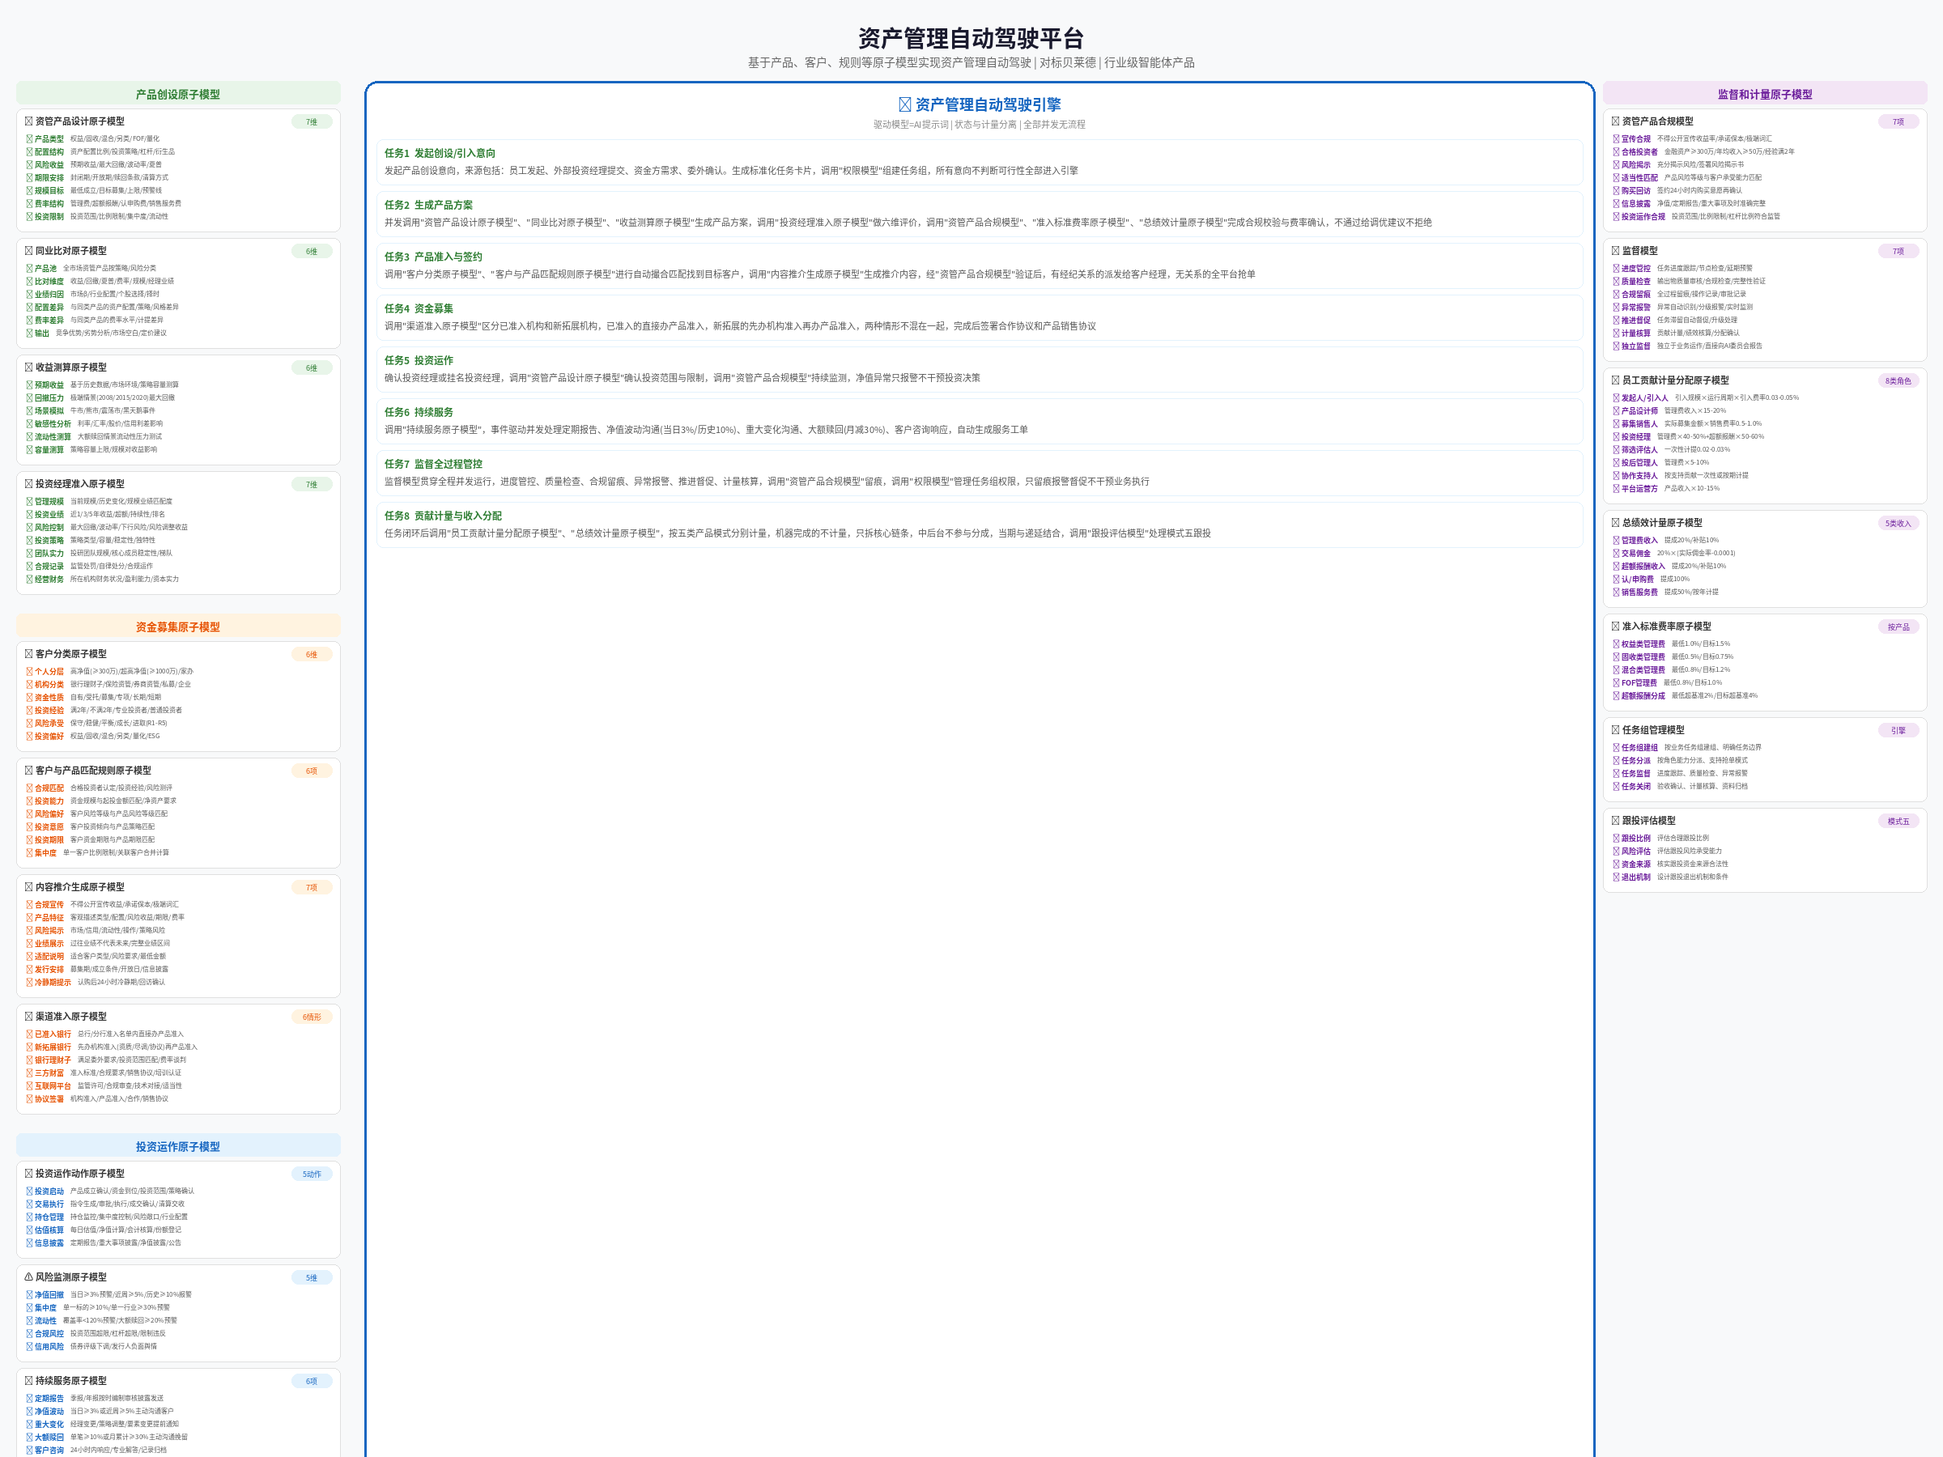
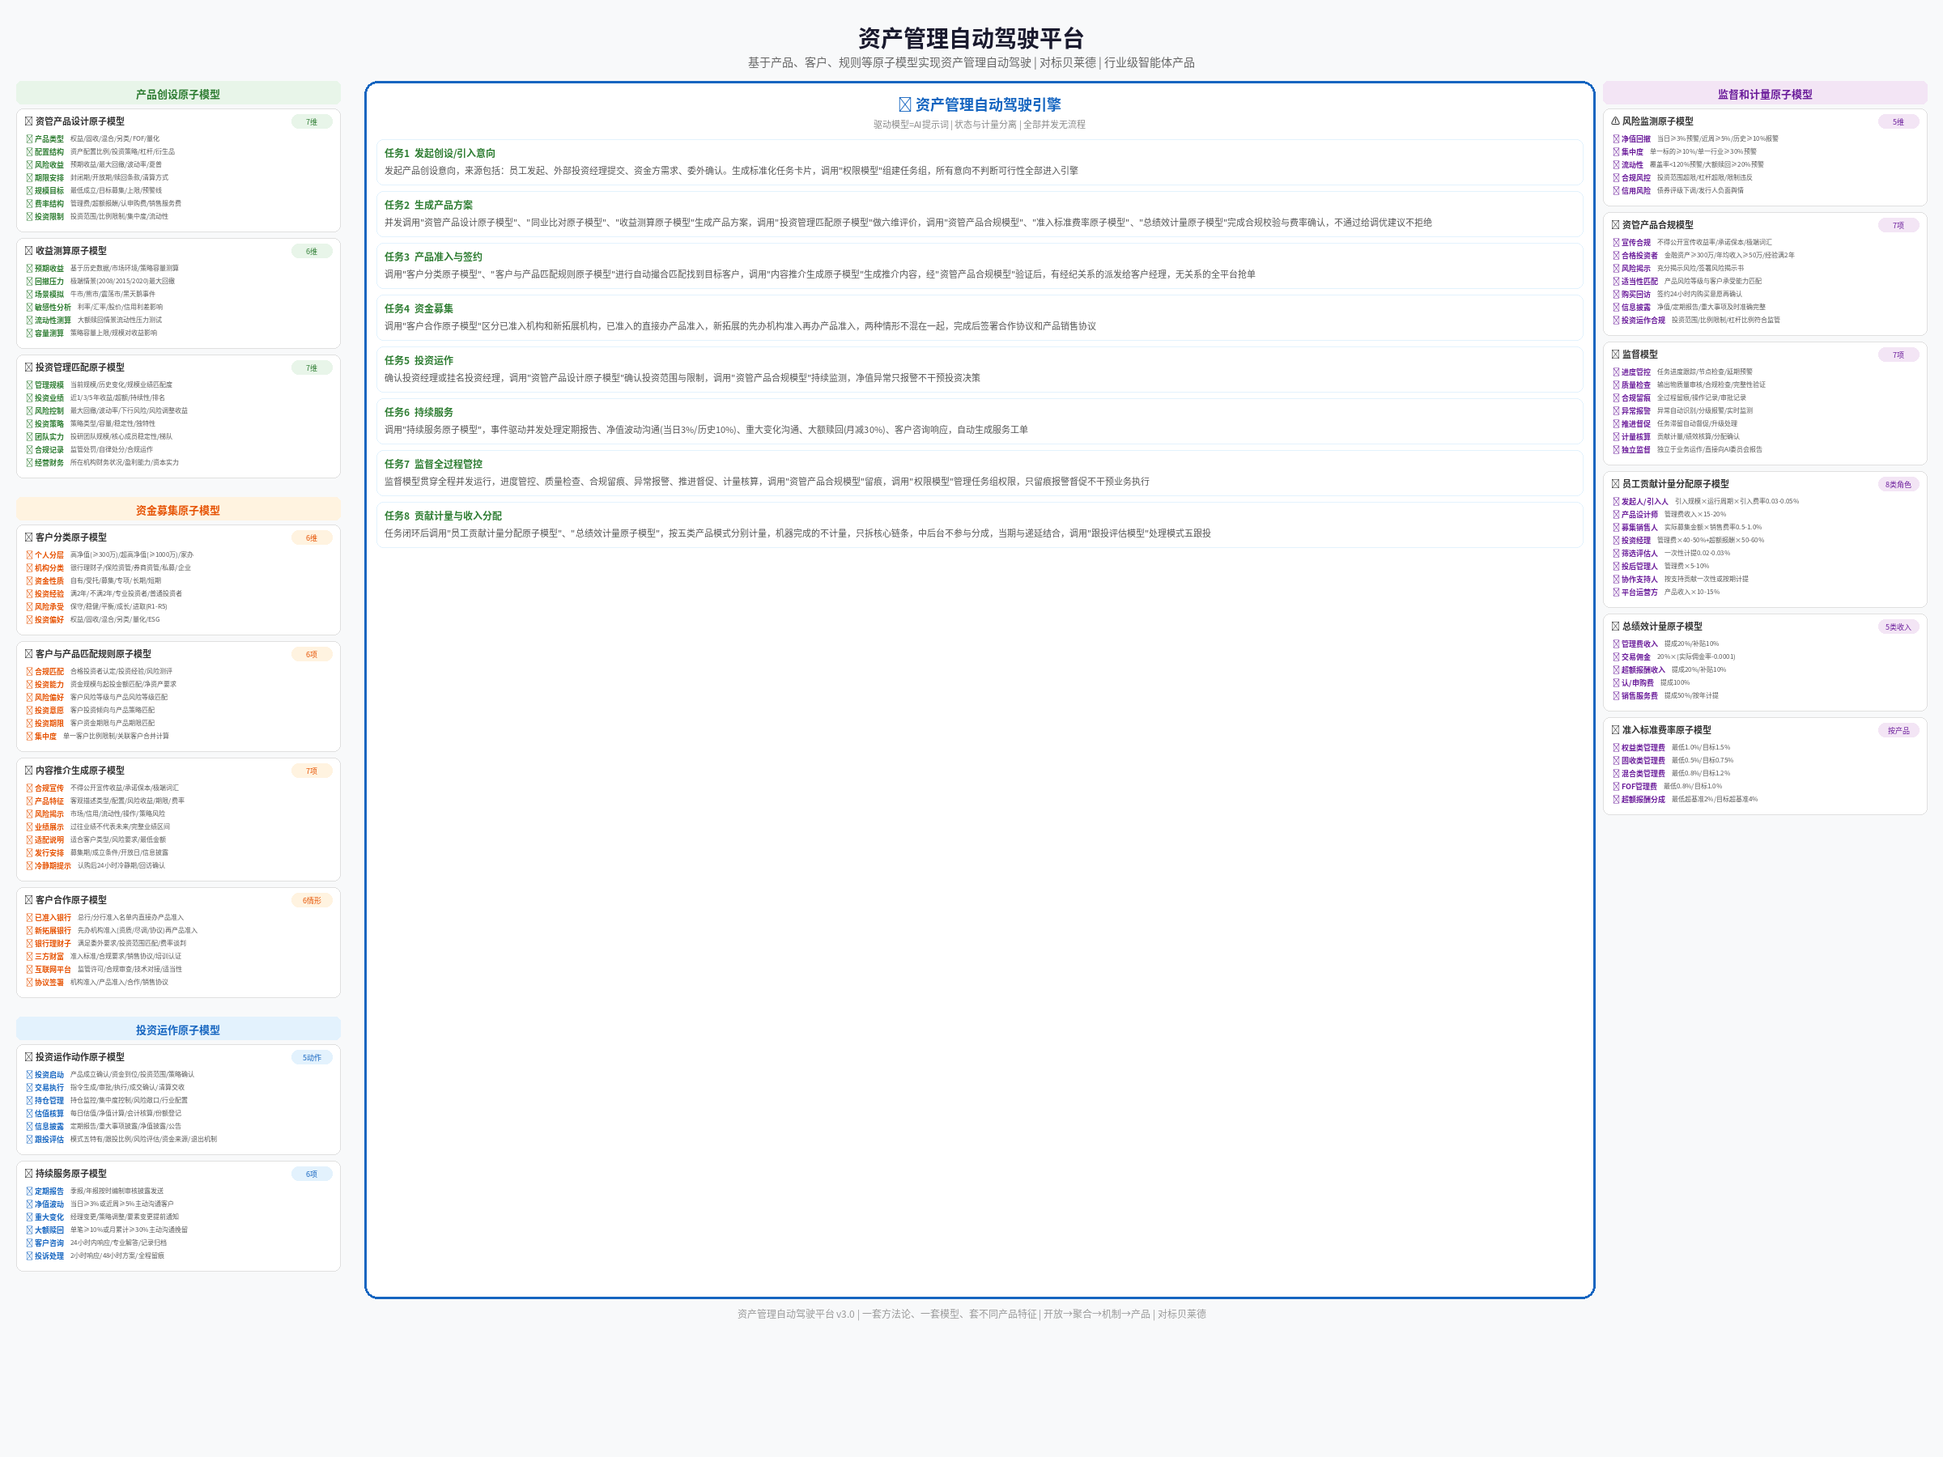
更新：去掉同业比对/权限模型/独立跟投评估，渠道准入改客户合作，风险监测移到右侧

diff --git a/diagrams/generate_asset_mgmt_diagram.py b/diagrams/generate_asset_mgmt_diagram.py
@@ -109,18 +109,6 @@ sections_left = [
                 ]
             },
             {
-                'title': '📊 同业比对原子模型',
-                'tag': '6维',
-                'items': [
-                    ('产品池', '全市场资管产品按策略/风险分类'),
-                    ('比对维度', '收益/回撤/夏普/费率/规模/经理业绩'),
-                    ('业绩归因', '市场β/行业配置/个股选择/择时'),
-                    ('配置差异', '与同类产品的资产配置/策略/风格差异'),
-                    ('费率差异', '与同类产品的费率水平/计提差异'),
-                    ('输出', '竞争优势/劣势分析/市场空白/定价建议'),
-                ]
-            },
-            {
                 'title': '🧮 收益测算原子模型',
                 'tag': '6维',
                 'items': [
@@ -133,7 +121,7 @@ sections_left = [
                 ]
             },
             {
-                'title': '👤 投资经理准入原子模型',
+                'title': '👤 投资管理匹配原子模型',
                 'tag': '7维',
                 'items': [
                     ('管理规模', '当前规模/历史变化/规模业绩匹配度'),
@@ -189,7 +177,7 @@ sections_left = [
                 ]
             },
             {
-                'title': '🏦 渠道准入原子模型',
+                'title': '🤝 客户合作原子模型',
                 'tag': '6情形',
                 'items': [
                     ('已准入银行', '总行/分行准入名单内直接办产品准入'),
@@ -215,17 +203,7 @@ sections_left = [
                     ('持仓管理', '持仓监控/集中度控制/风险敞口/行业配置'),
                     ('估值核算', '每日估值/净值计算/会计核算/份额登记'),
                     ('信息披露', '定期报告/重大事项披露/净值披露/公告'),
-                ]
-            },
-            {
-                'title': '⚠ 风险监测原子模型',
-                'tag': '5维',
-                'items': [
-                    ('净值回撤', '当日≥3%预警/近周≥5%/历史≥10%报警'),
-                    ('集中度', '单一标的≥10%/单一行业≥30%预警'),
-                    ('流动性', '覆盖率<120%预警/大额赎回≥20%预警'),
-                    ('合规风控', '投资范围超限/杠杆超限/限制违反'),
-                    ('信用风险', '债券评级下调/发行人负面舆情'),
+                    ('跟投评估', '模式五特有/跟投比例/风险评估/资金来源/退出机制'),
                 ]
             },
             {
@@ -249,6 +227,17 @@ sections_right = [
         'title': '监督和计量原子模型',
         'sec': 'sec4',
         'models': [
+            {
+                'title': '⚠ 风险监测原子模型',
+                'tag': '5维',
+                'items': [
+                    ('净值回撤', '当日≥3%预警/近周≥5%/历史≥10%报警'),
+                    ('集中度', '单一标的≥10%/单一行业≥30%预警'),
+                    ('流动性', '覆盖率<120%预警/大额赎回≥20%预警'),
+                    ('合规风控', '投资范围超限/杠杆超限/限制违反'),
+                    ('信用风险', '债券评级下调/发行人负面舆情'),
+                ]
+            },
             {
                 'title': '🛡 资管产品合规模型',
                 'tag': '7项',
@@ -309,26 +298,6 @@ sections_right = [
                     ('混合类管理费', '最低0.8%/目标1.2%'),
                     ('FOF管理费', '最低0.8%/目标1.0%'),
                     ('超额报酬分成', '最低超基准2%/目标超基准4%'),
-                ]
-            },
-            {
-                'title': '🔑 任务组管理模型',
-                'tag': '引擎',
-                'items': [
-                    ('任务组建组', '按业务任务组建组、明确任务边界'),
-                    ('任务分派', '按角色能力分派、支持抢单模式'),
-                    ('任务监督', '进度跟踪、质量检查、异常报警'),
-                    ('任务关闭', '验收确认、计量核算、资料归档'),
-                ]
-            },
-            {
-                'title': '📋 跟投评估模型',
-                'tag': '模式五',
-                'items': [
-                    ('跟投比例', '评估合理跟投比例'),
-                    ('风险评估', '评估跟投风险承受能力'),
-                    ('资金来源', '核实跟投资金来源合法性'),
-                    ('退出机制', '设计跟投退出机制和条件'),
                 ]
             },
         ]
@@ -421,11 +390,11 @@ tasks = [
     ('1', '发起创设/引入意向',
      '发起产品创设意向，来源包括：员工发起、外部投资经理提交、资金方需求、委外确认。生成标准化任务卡片，调用"权限模型"组建任务组，所有意向不判断可行性全部进入引擎'),
     ('2', '生成产品方案',
-     '并发调用"资管产品设计原子模型"、"同业比对原子模型"、"收益测算原子模型"生成产品方案，调用"投资经理准入原子模型"做六维评价，调用"资管产品合规模型"、"准入标准费率原子模型"、"总绩效计量原子模型"完成合规校验与费率确认，不通过给调优建议不拒绝'),
+     '并发调用"资管产品设计原子模型"、"同业比对原子模型"、"收益测算原子模型"生成产品方案，调用"投资管理匹配原子模型"做六维评价，调用"资管产品合规模型"、"准入标准费率原子模型"、"总绩效计量原子模型"完成合规校验与费率确认，不通过给调优建议不拒绝'),
     ('3', '产品准入与签约',
      '调用"客户分类原子模型"、"客户与产品匹配规则原子模型"进行自动撮合匹配找到目标客户，调用"内容推介生成原子模型"生成推介内容，经"资管产品合规模型"验证后，有经纪关系的派发给客户经理，无关系的全平台抢单'),
     ('4', '资金募集',
-     '调用"渠道准入原子模型"区分已准入机构和新拓展机构，已准入的直接办产品准入，新拓展的先办机构准入再办产品准入，两种情形不混在一起，完成后签署合作协议和产品销售协议'),
+     '调用"客户合作原子模型"区分已准入机构和新拓展机构，已准入的直接办产品准入，新拓展的先办机构准入再办产品准入，两种情形不混在一起，完成后签署合作协议和产品销售协议'),
     ('5', '投资运作',
      '确认投资经理或挂名投资经理，调用"资管产品设计原子模型"确认投资范围与限制，调用"资管产品合规模型"持续监测，净值异常只报警不干预投资决策'),
     ('6', '持续服务',

diff --git a/资产管理自动驾驶平台设计方案 v3.0.md b/资产管理自动驾驶平台设计方案 v3.0.md
@@ -41,18 +41,8 @@
 | 费率结构 | 管理费、超额报酬计提方式、认申购费、销售服务费、赎回费 |
 | 投资限制 | 投资范围、投资比例限制、集中度限制、流动性要求 |
 
-#### 2. 同业比对原子模型
 
-| 维度 | 内容 |
-|------|------|
-| 产品池 | 全市场资管产品，按策略/资产类别/风险等级/管理人分类 |
-| 比对维度 | 收益率、最大回撤、夏普比率、费率、规模、投资经理业绩 |
-| 业绩归因 | 收益来源分解（市场β、行业配置、个股选择、择时） |
-| 配置差异 | 与同类产品的资产配置差异、策略差异、风格差异 |
-| 费率差异 | 与同类产品的费率水平差异、超额报酬计提差异 |
-| 输出 | 产品竞争优势/劣势分析、市场空白点识别、定价建议 |
-
-#### 3. 收益测算原子模型
+#### 2. 收益测算原子模型
 
 | 维度 | 内容 |
 |------|------|
@@ -63,7 +53,7 @@
 | 流动性测算 | 大额赎回情景下的流动性压力测试 |
 | 容量测算 | 策略容量上限测算、规模对收益的影响分析 |
 
-#### 4. 投资经理准入原子模型
+#### 3. 投资管理匹配原子模型
 
 | 维度 | 评价标准 |
 |------|---------|
@@ -77,7 +67,7 @@
 
 ### 资金募集原子模型
 
-#### 5. 客户分类原子模型
+#### 4. 客户分类原子模型
 
 | 分类维度 | 具体类别 |
 |---------|---------|
@@ -88,7 +78,7 @@
 | 风险承受能力 | 保守型/稳健型/平衡型/成长型/进取型（R1-R5） |
 | 投资偏好 | 权益偏好、固收偏好、混合偏好、另类偏好、量化偏好、ESG偏好 |
 
-#### 6. 客户与资管产品匹配规则原子模型
+#### 5. 客户与资管产品匹配规则原子模型
 
 | 匹配维度 | 规则 |
 |---------|------|
@@ -99,7 +89,7 @@
 | 投资期限匹配 | 客户资金期限与产品封闭期/开放期匹配，防止期限错配 |
 | 集中度匹配 | 单一客户投资比例限制、关联客户合并计算 |
 
-#### 7. 资管产品内容推介生成原子模型
+#### 6. 资管产品内容推介生成原子模型
 
 | 生成内容 | 规则 |
 |---------|------|
@@ -111,7 +101,7 @@
 | 发行安排 | 募集期、成立条件、开放日安排、信息披露方式 |
 | 冷静期提示 | 私募产品认购后24小时冷静期、回访确认安排 |
 
-#### 8. 渠道准入原子模型
+#### 7. 客户合作原子模型
 
 | 情形 | 处理规则 |
 |------|---------|
@@ -124,7 +114,7 @@
 
 ### 投资运作原子模型
 
-#### 9. 投资运作动作原子模型
+#### 8. 投资运作动作原子模型
 
 | 动作 | 内容 |
 |------|------|
@@ -133,8 +123,9 @@
 | 持仓管理 | 持仓监控、集中度控制、风险敞口管理、行业配置调整 |
 | 估值核算 | 每日估值、净值计算、会计核算、份额登记、费用计提 |
 | 信息披露 | 定期报告编制、重大事项披露、净值披露、临时公告 |
+| 跟投评估 | 模式五特有：跟投比例、风险评估、资金来源、退出机制 |
 
-#### 10. 风险监测原子模型
+#### 9. 风险监测原子模型
 
 | 监测维度 | 预警标准 | 处理机制 |
 |---------|---------|---------|
@@ -144,7 +135,7 @@
 | 合规风控线 | 投资范围超限、杠杆比例超限、投资限制违反 | 立即制止→合规报告→监管报告（如需要） |
 | 信用风险 | 持仓债券信用评级下调、发行人负面舆情 | 信用评估→减仓建议→风险预案 |
 
-#### 11. 持续服务原子模型
+#### 10. 持续服务原子模型
 
 | 服务类型 | 触发条件 | 处理要求 | 负责角色 |
 |---------|---------|---------|---------|
@@ -157,7 +148,7 @@
 
 ### 监督和计量原子模型
 
-#### 12. 资管产品合规模型
+#### 11. 资管产品合规模型
 
 | 合规维度 | 具体要求 |
 |---------|---------|
@@ -169,7 +160,7 @@
 | 信息披露 | 按监管要求披露净值、定期报告、重大事项 |
 | 投资运作合规 | 投资范围/比例限制/杠杆比例符合监管要求 |
 
-#### 13. 监督模型
+#### 12. 监督模型
 
 | 监督维度 | 监督内容 | 监督方式 | 输出 |
 |---------|---------|---------|------|
@@ -181,7 +172,7 @@
 | 计量核算 | 贡献计量、绩效核算、分配确认 | 计量模型自动计算、人工复核 | 计量报告、分配方案 |
 | 独立监督 | 独立于业务运作的监督、直接向AI委员会报告 | 独立监督岗、定期报告 | 监督报告、改进建议 |
 
-#### 14. 资管产品员工贡献计量分配原子模型
+#### 13. 资管产品员工贡献计量分配原子模型
 
 | 角色 | 计提范围 | 计算方式 | 约束条件 |
 |------|---------|---------|---------|
@@ -209,7 +200,7 @@
 | 产品销售人员 | 0%-80% | 0%-45% | 介绍客户：基准24%/超额13.5%；产品讲解：基准10%/超额5.6%；营销服务：基准46%/超额25.9% |
 | 产品售后人员 | 0%-10% | 0%-5% | 按基准：按时10%/超期已完成5%/超期未完成0%；超额部分：按时5%/超期已完成2.5%/超期未完成0% |
 
-#### 15. 资管产品总绩效计量原子模型
+#### 14. 资管产品总绩效计量原子模型
 
 | 收入类型 | 提成比例 | 补贴比例 | 计算说明 |
 |---------|---------|---------|---------|
@@ -237,10 +228,8 @@
 
 | 模型 | 说明 |
 |------|------|
-| 驱动模型 | AI提示词，定义任务触发→调度→执行逻辑，是引擎运行的核心 |
+| 驱动模型 | AI提示词，定义任务触发→调度→执行逻辑 |
 | 任务组管理模型 | 任务组建组/分派/监督/关闭，管理任务全生命周期 |
-| 跟投评估模型 | 模式五特有，评估跟投比例、资金来源、风险承受能力、退出机制 |
-
 ---
 
 ## 三、任务调度与协同清单
@@ -319,17 +308,17 @@
 
 动作A——如果任务卡片包含初步产品意向：
 调用"资管产品设计原子模型"（配置/风险收益/期限三维度），
-调用"同业比对原子模型"对比市面同类产品，
+调用"收益测算原子模型"进行收益测算，
 调用"收益测算原子模型"进行收益预估和压力测试，
 生成标准化产品方案初稿。
 
 动作B——如果任务卡片是外部投资经理提交的产品：
-调用"投资经理准入原子模型"（六维评价），
+调用"投资管理匹配原子模型"（六维评价），
 对产品方案进行平台适配性评估，
 标记需要修改的维度。
 
 动作C——如果任务卡片是委外需求：
-调用"投资经理准入原子模型"筛选匹配的私募管理人，
+调用"投资管理匹配原子模型"筛选匹配的私募管理人，
 调用"资管产品设计原子模型"确认产品架构，
 生成委外产品方案。
 
@@ -346,7 +335,7 @@
 - 如不通过：标记不通过原因和调优建议（不直接拒绝）
 ```
 
-**调用原子模型**：资管产品设计原子模型、同业比对原子模型、收益测算原子模型、投资经理准入原子模型、资管产品合规模型、资管产品准入标准费率原子模型、资管产品总绩效计量原子模型
+**调用原子模型**：资管产品设计原子模型、收益测算原子模型、投资管理匹配原子模型、资管产品合规模型、资管产品准入标准费率原子模型、资管产品总绩效计量原子模型
 
 **协同关系**：接收任务1输出 → 输出到任务3、任务4、任务5
 
@@ -370,7 +359,7 @@
 签署产品销售协议。
 
 情形B——新拓展机构：
-生成机构准入任务（银行准入/渠道准入），
+生成机构准入任务（银行准入/客户合作），
 分派给渠道拓展责任人（或全平台抢单），
 机构准入完成后再办理产品准入，
 签署合作框架协议和产品销售协议。
@@ -383,7 +372,7 @@
 - 合作协议/销售协议
 ```
 
-**调用原子模型**：渠道准入原子模型、资管产品合规模型
+**调用原子模型**：客户合作原子模型、资管产品合规模型
 
 **协同关系**：接收任务2输出 → 输出到任务5
 
@@ -603,7 +592,7 @@
 - 状态是给机器看的，计量是给人算的，两者分开
 ```
 
-**调用原子模型**：资管产品员工贡献计量分配原子模型、资管产品总绩效计量原子模型、跟投评估模型
+**调用原子模型**：资管产品员工贡献计量分配原子模型、资管产品总绩效计量原子模型
 
 **协同关系**：接收任务3、任务5、任务6、任务7输出 → 生成分配结果
 
@@ -645,7 +634,6 @@
 
 **模式五（非员工设计发行）**
 - 任务1触发：外部机构提交方案或员工引入
-- 任务2特点：需额外调用跟投评估模型确定跟投比例
 - 任务4特点：风险最高，需更严格的渠道审查
 - 任务8重点：发行方按协议提取，公司按跟投收益计算
 
